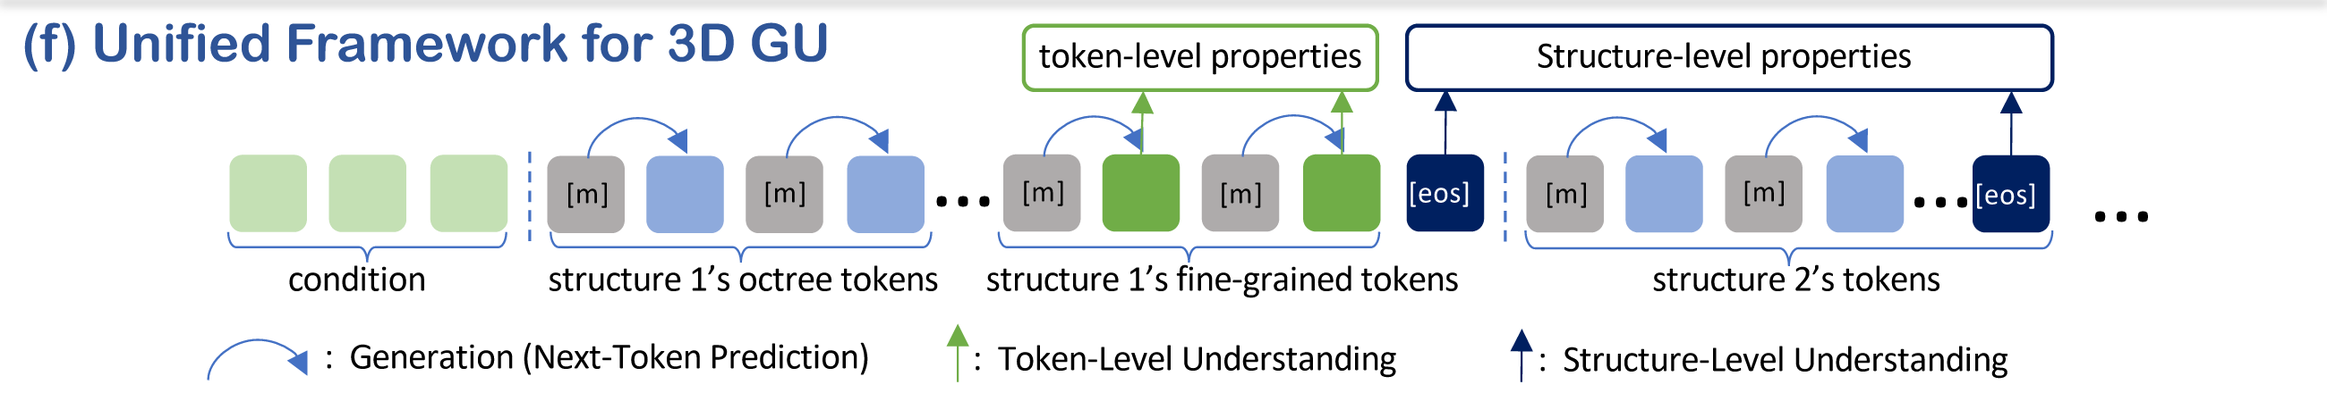
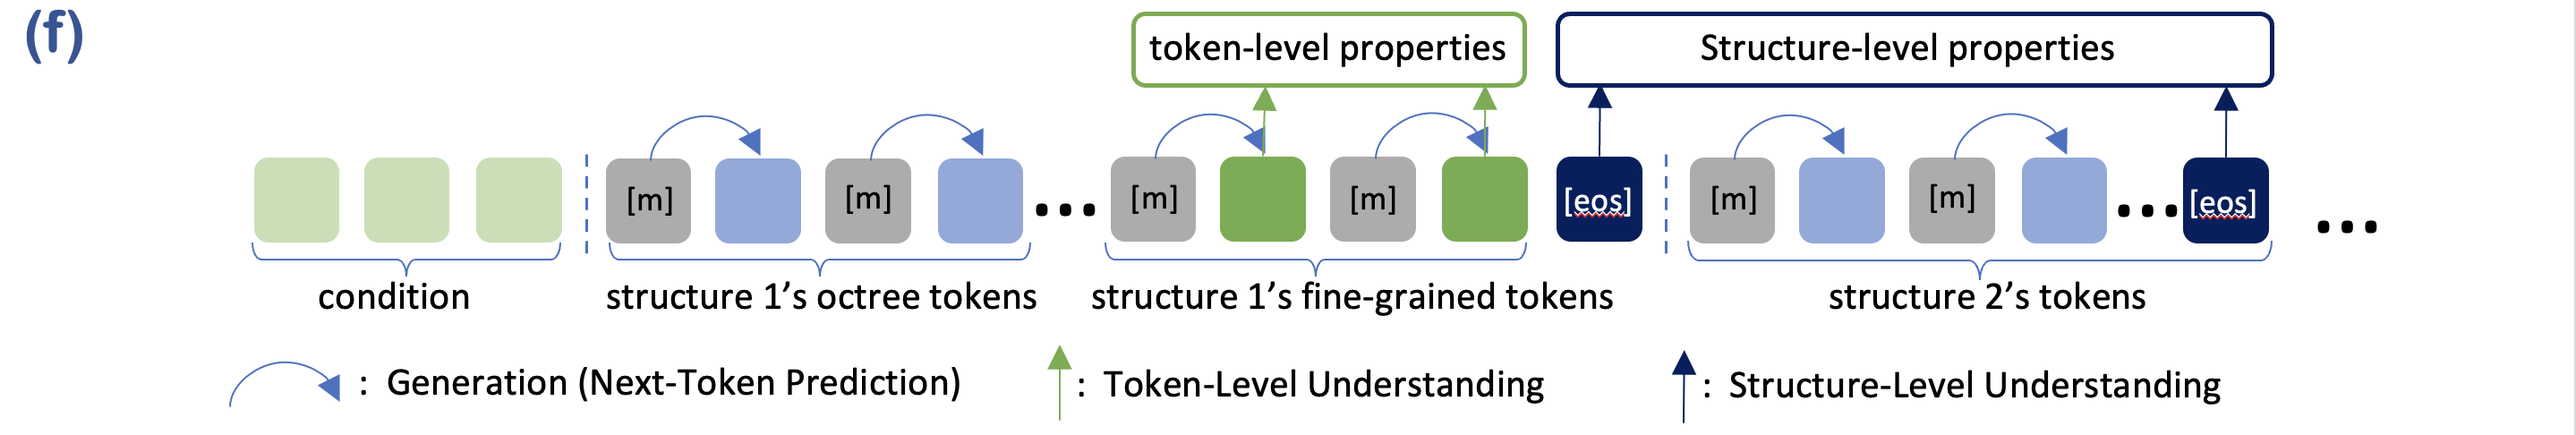
update

diff --git a/index.html b/index.html
@@ -182,7 +182,15 @@
         <figure class="image">
           <img src="./static/images/uni3d-one(e).png" alt="Masked next‑token prediction handles dynamically shifting token positions" style="max-width:90%; display:block; margin:0 auto;">
           <figcaption>
-            (e) Masked next‑token prediction handles dynamically shifting token positions; unified framework integrates generation and understanding in one model.
+            (e) Masked next‑token prediction handles dynamically shifting token positions;
+          </figcaption>
+        </figure>
+      </div>
+      <div class="column is-full has-text-centered">
+        <figure class="image">
+          <img src="./static/images/uni3d-one(f).png" alt="Masked next‑token prediction handles dynamically shifting token positions" style="max-width:90%; display:block; margin:0 auto;">
+          <figcaption>
+            (f) Unified framework integrates generation and understanding in one model.
           </figcaption>
         </figure>
       </div>
